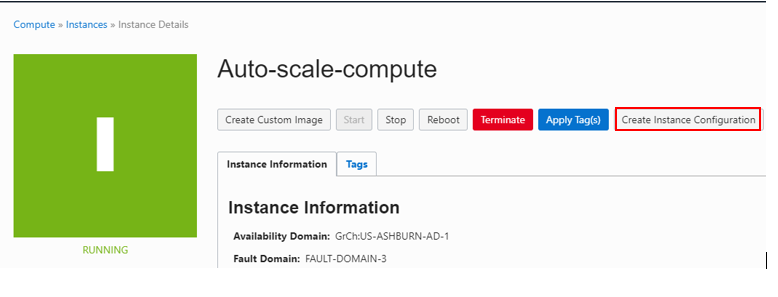
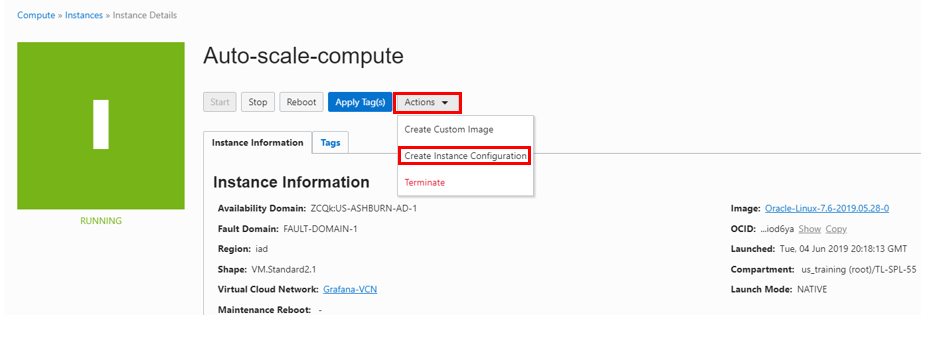
auto scaling lab fixes

Changed region(s): [[0.0, 0.0, 0.9871, 0.9394], [0.7712, 0.6667, 0.9871, 0.8788], [0.0925, 0.2727, 0.1542, 0.5758]]

diff --git a/oci-library/qloudable/Configuring_Auto_Scaling/Configuring_Auto-Scaling.md b/oci-library/qloudable/Configuring_Auto_Scaling/Configuring_Auto-Scaling.md
@@ -181,7 +181,7 @@ cat /C/Users/PhotonUser/.ssh/id_rsa.pub
 
 10. Wait for Instance to be in **Running** state. 
 
-11. Click instance name and then **Create Instance Configuration**, Fill out the dialog box:
+11. Click Instance name and then select **Create Instance Configuration** from the Action menuFill out the dialog box:
 
 <img src="https://raw.githubusercontent.com/oracle/learning-library/master/oci-library/qloudable/Configuring_Auto_Scaling/img/Auto_Scaling_001.PNG" alt="image-alt-text" height="200" width="200">
 
@@ -189,13 +189,13 @@ cat /C/Users/PhotonUser/.ssh/id_rsa.pub
 
 - **INSTANCE CONFIGURATION NAME** : Provide a name
 
-Click **Create Instance Configuration**
+12. Click **Create Instance Configuration**
 
-12. Click **Instances** to go back to Instances page and then click **Instance Pools**
+13. In the Instance Configuration page, Click **Create Instance Pools**
 
 <img src="https://raw.githubusercontent.com/oracle/learning-library/master/oci-library/qloudable/Configuring_Auto_Scaling/img/Auto_Scaling_002.PNG" alt="image-alt-text" height="200" width="200">
 
-13.  Click **Create Instance Pool**. A new dialog box will appear. This is used to create initial configuration of the instance pool such as how many compute instance to create initially, VCN, and Availability domain the instance pool should be created in. Fill out the dialog box:
+14.  Click **Create Instance Pool**. A new dialog box will appear. This is used to create initial configuration of the instance pool such as how many compute instance to create initially, VCN, and Availability domain the instance pool should be created in. Fill out the dialog box:
 
 - **CREATE IN COMPARTMENT**: Choose your compartment
 
@@ -237,13 +237,13 @@ Click **Create Instance Configuration**
 
 <img src="https://raw.githubusercontent.com/oracle/learning-library/master/oci-library/qloudable/Configuring_Auto_Scaling/img/Auto_Scaling_003-1.PNG" alt="image-alt-text" height="200" width="200">
 
-14. Click **Create Instance Pool**. Wait for Instance Pool to be in **RUNNING** state (turns green)
+15. Click **Create Instance Pool**. Wait for Instance Pool to be in **RUNNING** state (turns green)
 
-15. From the instance pool details page, click **Actions** and choose **Create Auto Scaling Configuration**
+16. From the instance pool details page, click **Actions** and choose **Create Auto Scaling Configuration**
 
 <img src="https://raw.githubusercontent.com/oracle/learning-library/master/oci-library/qloudable/Configuring_Auto_Scaling/img/Auto_Scaling_004.PNG" alt="image-alt-text" height="200" width="200">
 
-16. Fill out the dialog box:
+17. Fill out the dialog box:
 
 - **COMPARTMENT** : Choose your compartment
 
@@ -277,7 +277,7 @@ Click **Create Instance Configuration**
 
 **Leave other fileds as is**
 
-17. Click **Create**
+18. Click **Create**
 
 <img src="https://raw.githubusercontent.com/oracle/learning-library/master/oci-library/qloudable/Configuring_Auto_Scaling/img/Auto_Scaling_005.PNG" alt="image-alt-text" height="200" width="200">
 
@@ -285,38 +285,38 @@ Click **Create Instance Configuration**
 
 **We have now created a auto scaling policy that will start with creating 1 compute instnace in the designated pool. Once the CPU utilization is determined to be above 10% for atleast 300 seconds another compute instance will be launched automatically. Once the CPU utilization is determined to be less than 5% for 300 seconds, one compute instance will be removed. At all times there will be atleast 1 compute instance in the pool**
 
-18. Click **Instance Pools** under **Compute** and then your pool name. You should see a Compute instance created. Click the Compute Instance name.
+**Original image can be deleted as it's not part of the pool**
+
+19. Click **Instance Pools** under **Compute** and then your pool name. You should see a Compute instance created. Click the Compute Instance name.
 
 <img src="https://raw.githubusercontent.com/oracle/learning-library/master/oci-library/qloudable/Configuring_Auto_Scaling/img/Auto_Scaling_007.PNG" alt="image-alt-text" height="200" width="200">
 
-19. Note down the Publci IP of compute instnace from the details page (Under **Primary VNIC Information** section). Switch to git bash window, if the ssh session to compute instance is still open then exit out of the session (quit command). 
+20. Note down the Publci IP of compute instnace from the details page (Under **Primary VNIC Information** section). Switch to git bash window, if the ssh session to compute instance is still open then exit out of the session (quit command). 
 
-20. Ensure you are in /C/Users/PhotonUser/.ssh directory.
+21. Ensure you are in /C/Users/PhotonUser/.ssh directory.
 
-21. Enter **ls** and verify id_rsa file exists
+22. Enter **ls** and verify id_rsa file exists
 
-22. Enter command 
+23. Enter command 
 ```
 ssh -i id_rsa_user opc@<PUBLIC_IP_OF_COMPUTE>
 ```
 
 **HINT:** If 'Permission denied error' is seen, ensure you are using '-i' in the ssh command
 
-23. Enter 'Yes' when prompted for security message
+24. Enter 'Yes' when prompted for security message
 
 <img src="https://raw.githubusercontent.com/oracle/learning-library/master/oci-library/qloudable/OCI_Quick_Start/img/RESERVEDIP_HOL0014.PNG" alt="image-alt-text" height="200" width="200">
  
-24. We will now install a tool called stress to trigger CPU load. In ssh session to compute instance, Enter command:
+25. We will now install a tool called stress to trigger CPU load. In ssh session to compute instance, Enter command:
 
 ```
-sudo yum install stress
+sudo yum -y install stress
 ```
-
-Enter 'Y' when prompted
 
 <img src="https://raw.githubusercontent.com/oracle/learning-library/master/oci-library/qloudable/Configuring_Auto_Scaling/img/Auto_Scaling_008.PNG" alt="image-alt-text" height="200" width="200">
 
-25. Now start CPU stress, Enter command:
+26. Now start CPU stress, Enter command:
 
 ```
 sudo stress --cpu 4 --timeout 350
@@ -324,21 +324,21 @@ sudo stress --cpu 4 --timeout 350
 
 ***spawn 4 workers spinning on sqrt() with a timeout of 350 seconds.***
 
-26. Switch back to OCI console and navigate to Instance pool details page. Click your instance name and scroll down to **Metric** screen, you should see CPU spiking up after a minute or so.
+27. Switch back to OCI console and navigate to Instance pool details page. Click your instance name and scroll down to **Metric** screen, you should see CPU spiking up after a minute or so.
 
 <img src="https://raw.githubusercontent.com/oracle/learning-library/master/oci-library/qloudable/Configuring_Auto_Scaling/img/Auto_Scaling_009.PNG" alt="image-alt-text" height="200" width="200">
 
-27. Navigate to your Instance Pool details page. In about 3-4 minutes (time configured when we created auto scale configuration), status of Pool should change to **Scaling** and a second compute instance should launch.
+28. Navigate to your Instance Pool details page. In about 3-4 minutes (time configured when we created auto scale configuration), status of Pool should change to **Scaling** and a second compute instance should launch.
 
 <img src="https://raw.githubusercontent.com/oracle/learning-library/master/oci-library/qloudable/Configuring_Auto_Scaling/img/Auto_Scaling_010.PNG" alt="image-alt-text" height="200" width="200">
 
 **This is since our criteria of CPU utilization > 10 was met**
 
-28. Switch back to git bash window and if the stress tool is still running, Pree Ctrl + C to stop the script.
+29. Switch back to git bash window and if the stress tool is still running, Pree Ctrl + C to stop the script.
 
-29. Switch back to OCI console window and navigate to your compute instance details page. Verify CPU utilization goes down after a minute.
+30. Switch back to OCI console window and navigate to your compute instance details page. Verify CPU utilization goes down after a minute.
 
-30. Navigate to Instanse pool details page and after 3-4 minute Instance pool status will change to **Scaling** . Additional compute instance will be deleted. 
+31. Navigate to Instanse pool details page and after 3-4 minute Instance pool status will change to **Scaling** . Additional compute instance will be deleted. 
 
 **This is becuase our criteria of CPU utilization < 5 is met**
 
